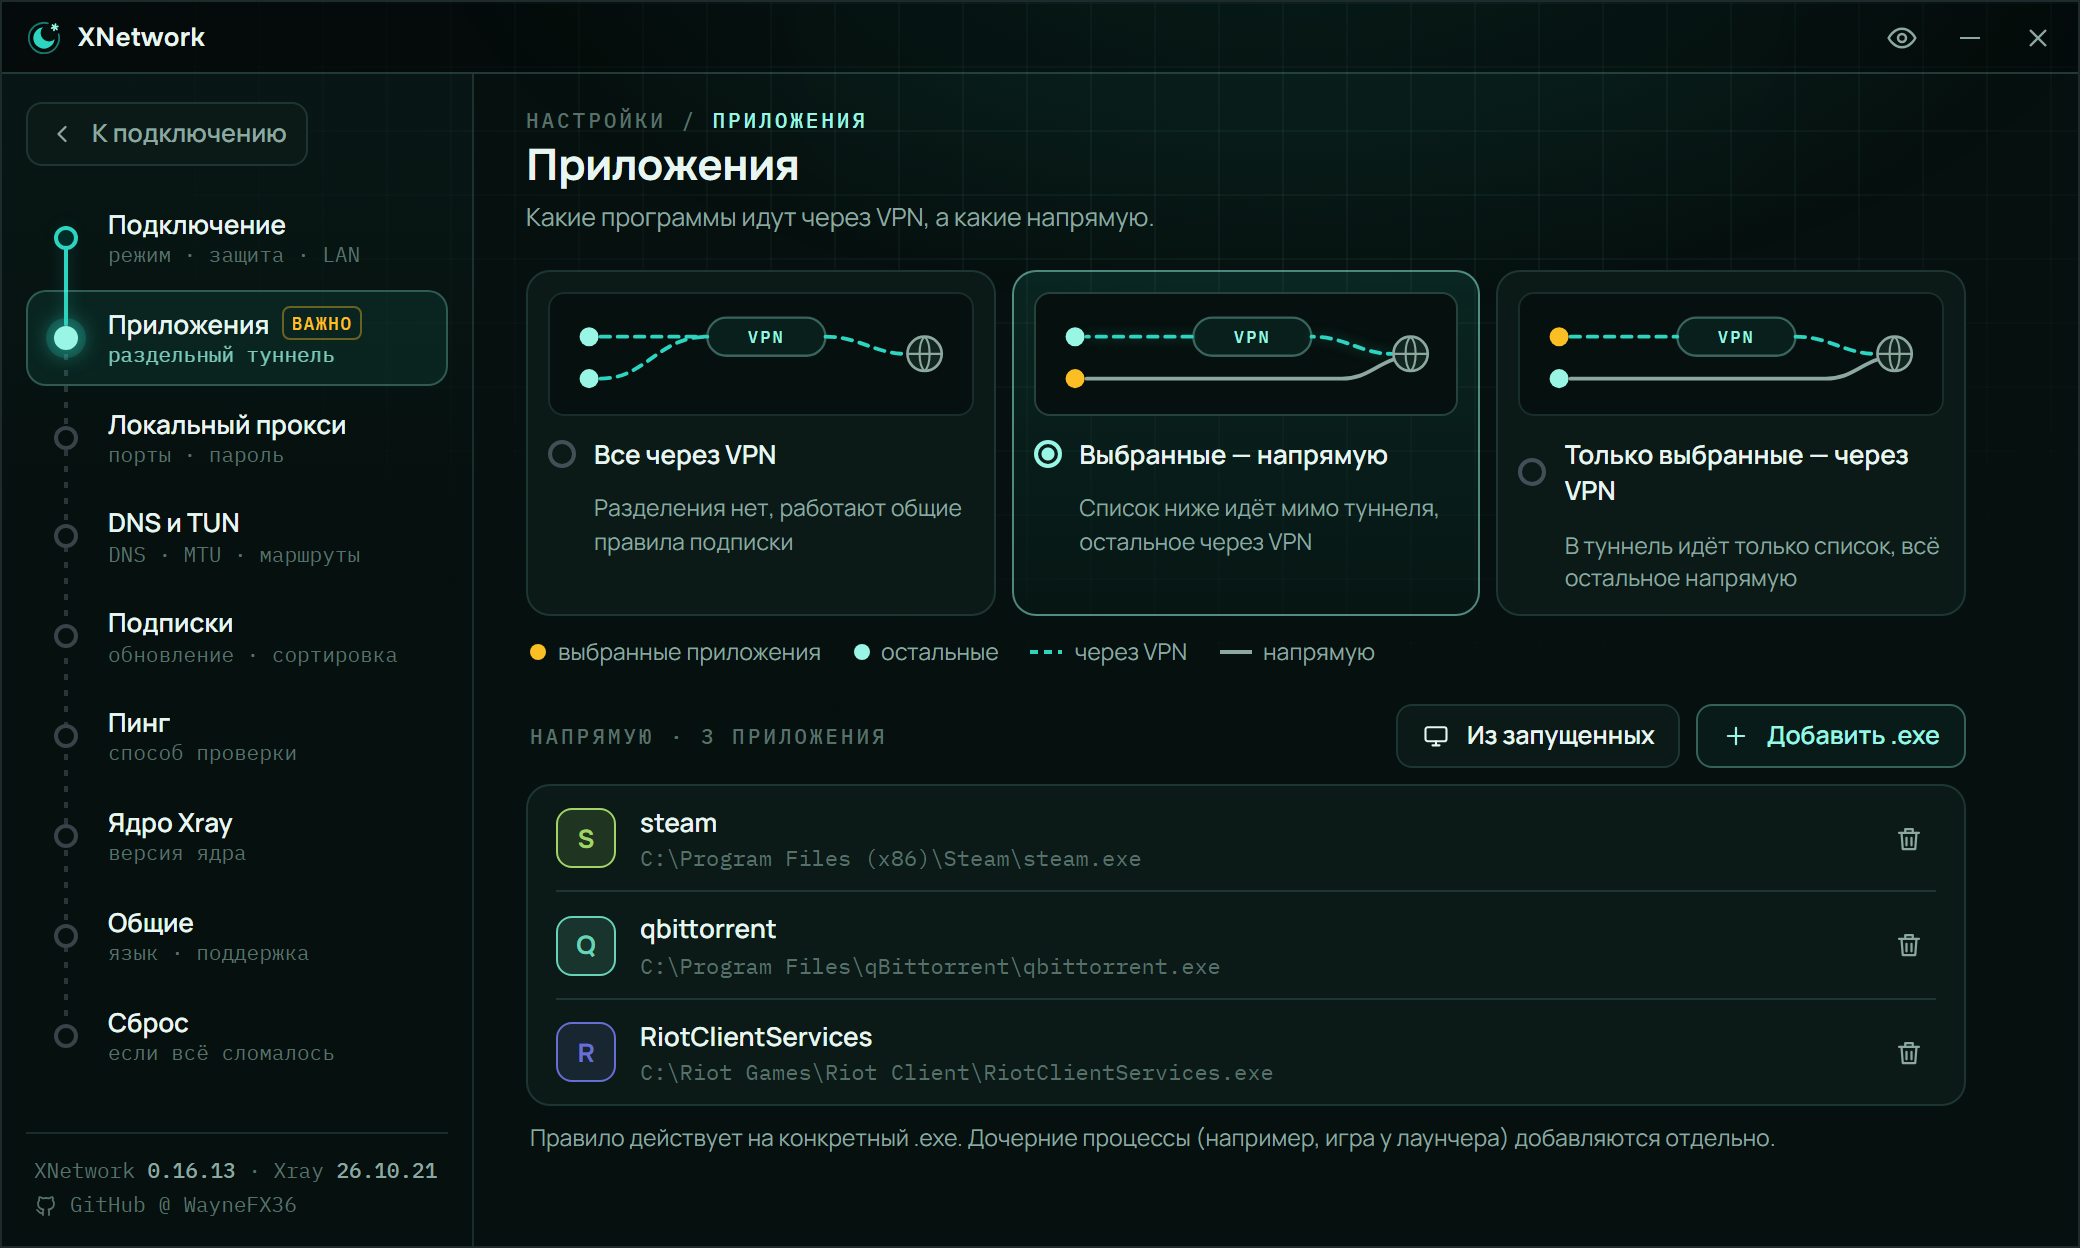
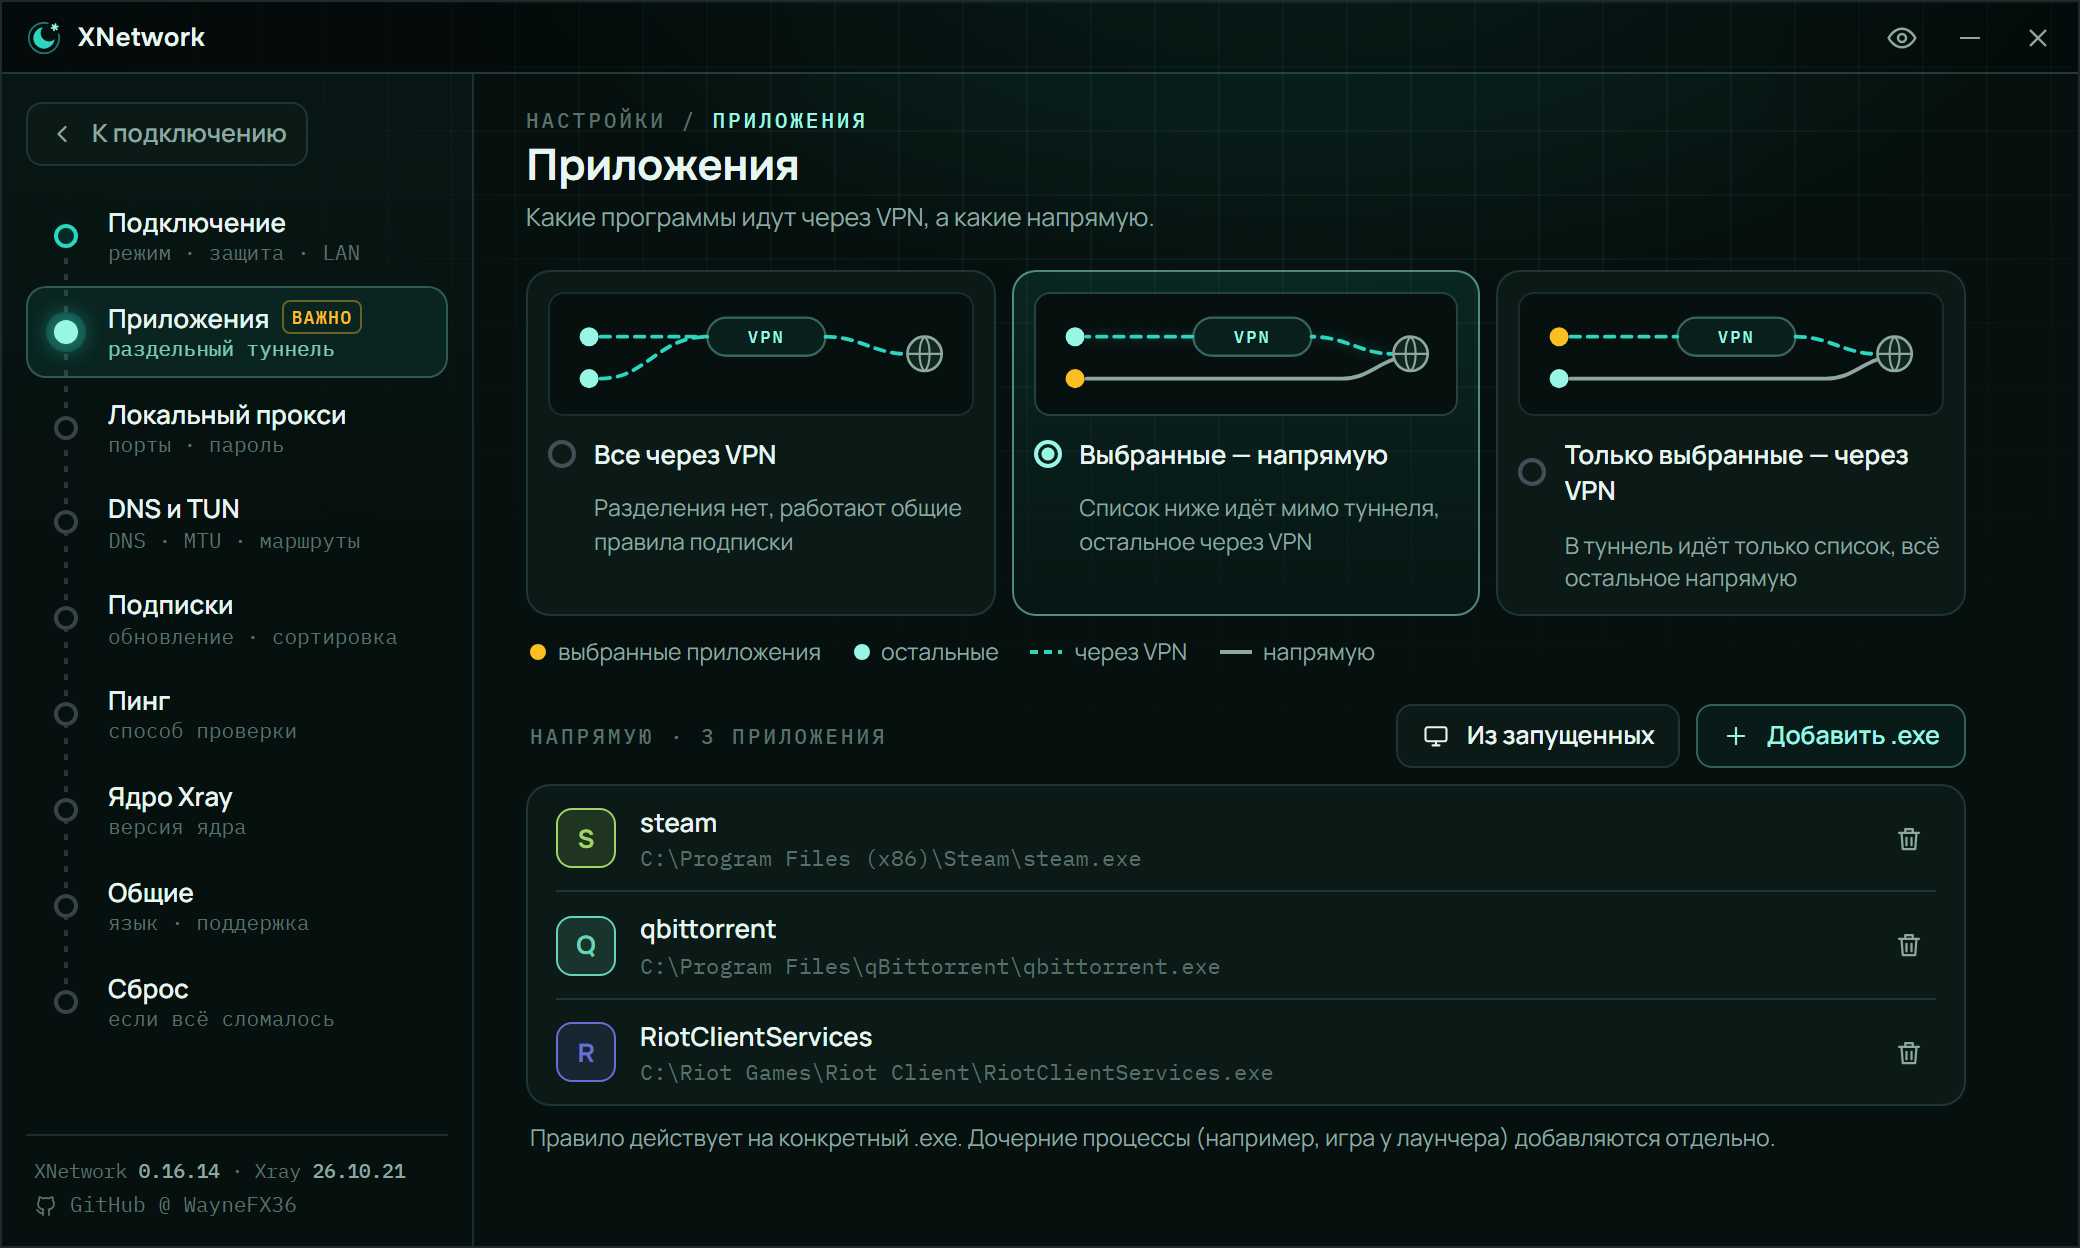
XNetwork 0.16.14

diff --git a/README.md b/README.md
@@ -8,7 +8,7 @@
 
 <br><br>
 
-<a href="https://github.com/WayneFX36/XNetwork-Client/releases/latest"><img src="https://img.shields.io/badge/версия-0.16.13-2dd4bf?style=for-the-badge&labelColor=0b1a17" alt="Версия"></a>
+<a href="https://github.com/WayneFX36/XNetwork-Client/releases/latest"><img src="https://img.shields.io/badge/версия-0.16.14-2dd4bf?style=for-the-badge&labelColor=0b1a17" alt="Версия"></a>
 <img src="https://img.shields.io/badge/Windows-10%20·%2011-2dd4bf?style=for-the-badge&logo=windows&logoColor=99f6e4&labelColor=0b1a17" alt="Windows 10 и 11">
 <img src="https://img.shields.io/badge/ядро-Xray--core-2dd4bf?style=for-the-badge&labelColor=0b1a17" alt="Xray-core">
 <br><br>

diff --git a/README.en.md b/README.en.md
@@ -8,7 +8,7 @@
 
 <br><br>
 
-<a href="https://github.com/WayneFX36/XNetwork-Client/releases/latest"><img src="https://img.shields.io/badge/version-0.16.13-2dd4bf?style=for-the-badge&labelColor=0b1a17" alt="Version"></a>
+<a href="https://github.com/WayneFX36/XNetwork-Client/releases/latest"><img src="https://img.shields.io/badge/version-0.16.14-2dd4bf?style=for-the-badge&labelColor=0b1a17" alt="Version"></a>
 <img src="https://img.shields.io/badge/Windows-10%20·%2011-2dd4bf?style=for-the-badge&logo=windows&logoColor=99f6e4&labelColor=0b1a17" alt="Windows 10 and 11">
 <img src="https://img.shields.io/badge/core-Xray--core-2dd4bf?style=for-the-badge&labelColor=0b1a17" alt="Xray-core">
 <br><br>
